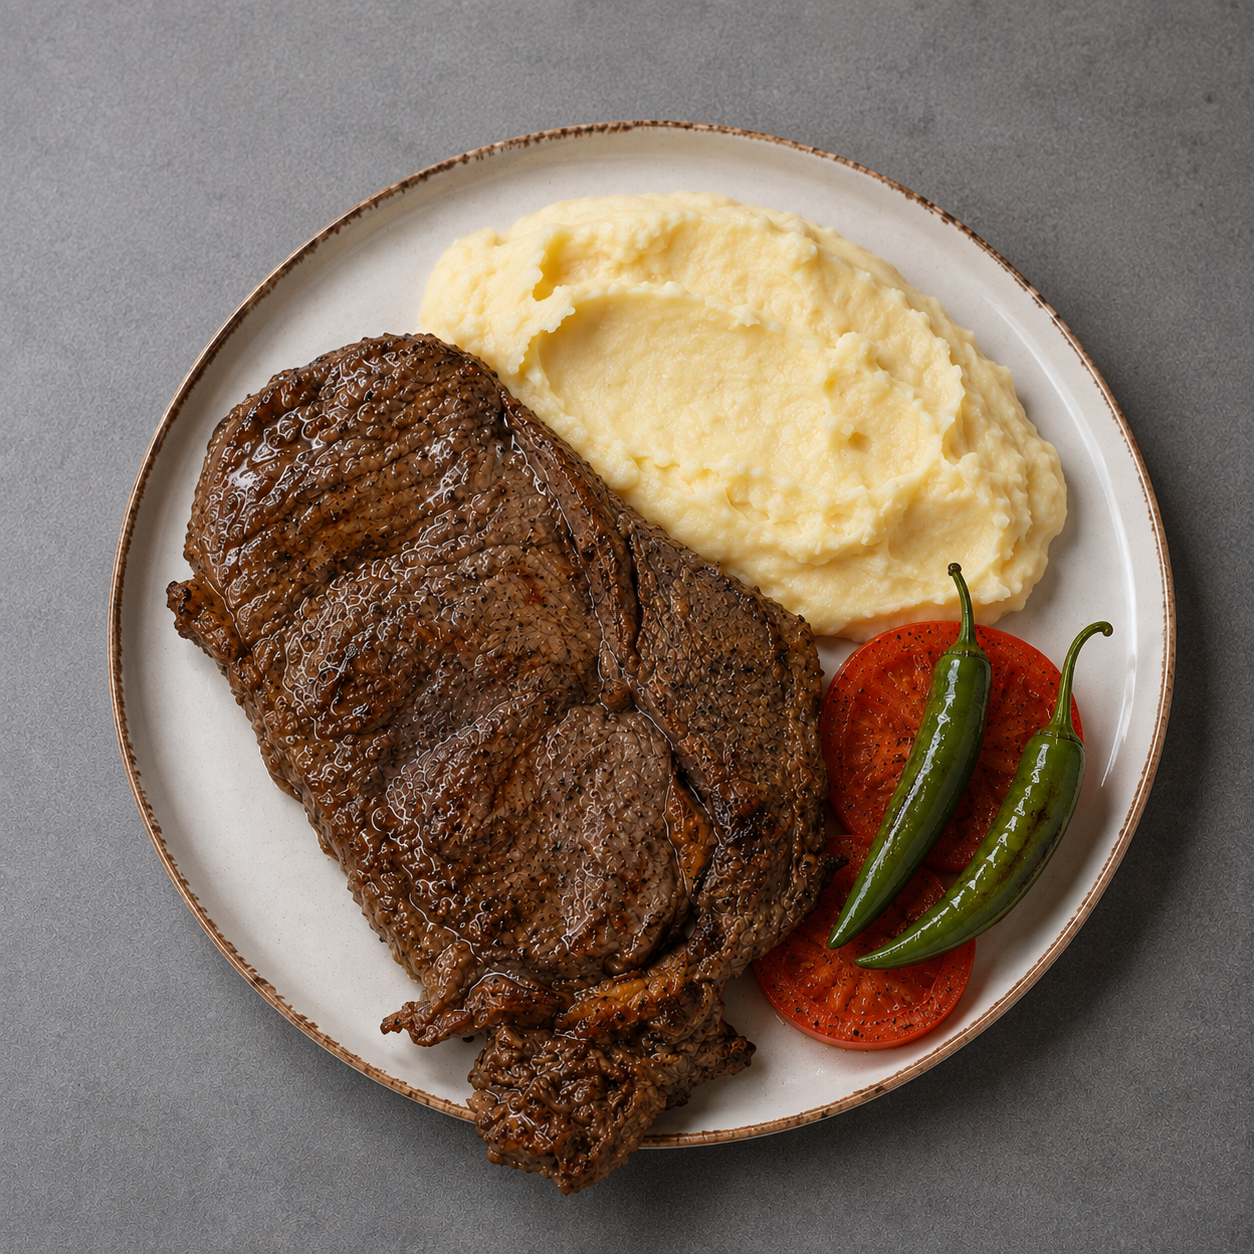
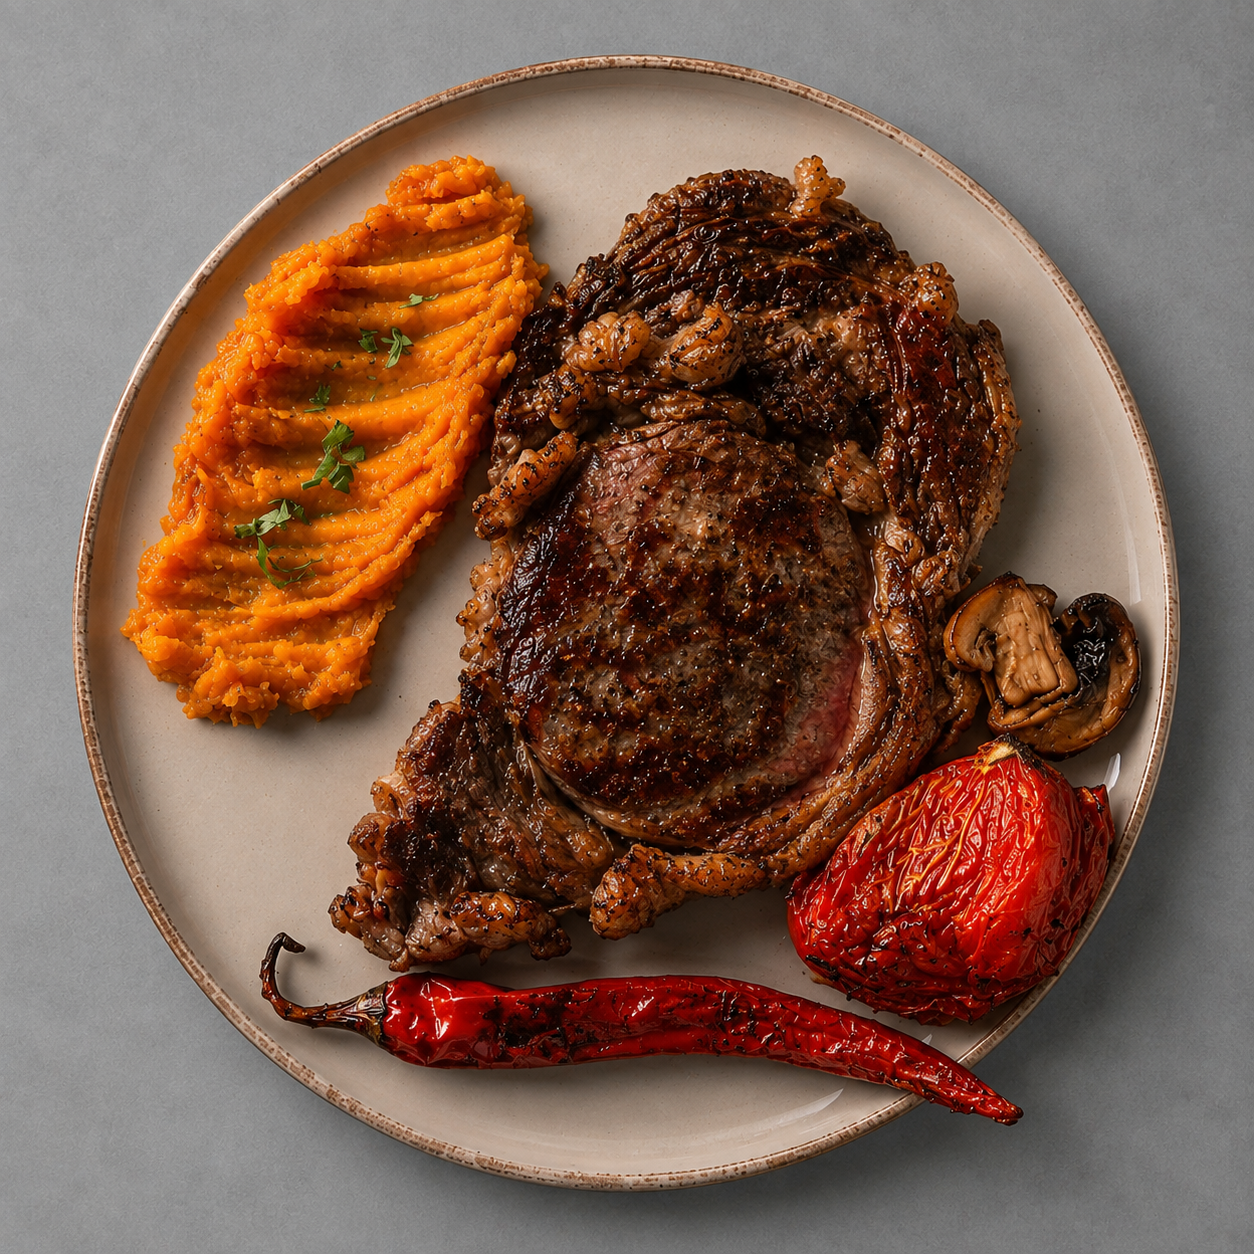
de

diff --git a/js/admin-reservations.js b/js/admin-reservations.js
@@ -189,30 +189,37 @@
     a.remove();
   }
 
-  function openWhatsAppWeb(record) {
+  function openWhatsAppWeb(record, opts = {}) {
     const phone = toWhatsAppPhone(record?.customer_phone);
     if (!phone) {
       showNotice('אין מספר טלפון תקין להודעת WhatsApp');
       return;
     }
-    const text = record?.status === 'confirmed'
-      ? buildConfirmedWhatsAppText(record)
-      : buildGenericWhatsAppText(record);
-    const textEnc = encodeURIComponent(text);
+    const blank = opts.blank === true;
+    const text = blank
+      ? ''
+      : (record?.status === 'confirmed'
+        ? buildConfirmedWhatsAppText(record)
+        : buildGenericWhatsAppText(record));
+    const textEnc = text ? encodeURIComponent(text) : '';
+    const textQuery = textEnc ? `&text=${textEnc}` : '';
 
     /* Desktop → WhatsApp Web (current). Mobile → WhatsApp Business app. */
     if (!isMobileDevice()) {
       openExternalUrl(
-        `https://web.whatsapp.com/send?phone=${encodeURIComponent(phone)}&text=${textEnc}`
+        `https://web.whatsapp.com/send?phone=${encodeURIComponent(phone)}${textQuery}`
       );
       return;
     }
 
     const ua = navigator.userAgent || '';
     if (/Android/i.test(ua)) {
-      const fallback = `https://wa.me/${phone}?text=${textEnc}`;
+      const fallback = `https://wa.me/${phone}${textEnc ? `?text=${textEnc}` : ''}`;
+      const intentPath = textEnc
+        ? `intent://send/?phone=${phone}&text=${textEnc}`
+        : `intent://send/?phone=${phone}`;
       openExternalUrl(
-        `intent://send/?phone=${phone}&text=${textEnc}`
+        `${intentPath}`
         + '#Intent;scheme=whatsapp;package=com.whatsapp.w4b;'
         + `S.browser_fallback_url=${encodeURIComponent(fallback)};end`
       );
@@ -220,7 +227,7 @@
     }
 
     /* iOS / other mobile — opens WhatsApp Business when installed */
-    openExternalUrl(`https://wa.me/${phone}?text=${textEnc}`);
+    openExternalUrl(`https://wa.me/${phone}${textEnc ? `?text=${textEnc}` : ''}`);
   }
 
   const WA_ICON = `<svg class="admin-wa-icon" viewBox="0 0 24 24" aria-hidden="true" focusable="false"><path fill="currentColor" d="M17.472 14.382c-.297-.149-1.758-.867-2.03-.967-.273-.099-.471-.148-.67.15-.197.297-.767.966-.94 1.164-.173.199-.347.223-.644.075-.297-.15-1.255-.463-2.39-1.475-.883-.788-1.48-1.761-1.653-2.059-.173-.297-.018-.458.13-.606.134-.133.298-.347.446-.52.149-.174.198-.298.298-.497.099-.198.05-.371-.025-.52-.075-.149-.669-1.612-.916-2.207-.242-.579-.487-.5-.669-.51-.173-.008-.371-.01-.57-.01-.198 0-.52.074-.792.372-.272.297-1.04 1.016-1.04 2.479 0 1.462 1.065 2.875 1.213 3.074.149.198 2.096 3.2 5.077 4.487.709.306 1.262.489 1.694.625.712.227 1.36.195 1.871.118.571-.085 1.758-.719 2.006-1.413.248-.694.248-1.289.173-1.413-.074-.124-.272-.198-.57-.347m-5.421 7.403h-.004a9.87 9.87 0 01-5.031-1.378l-.361-.214-3.741.982.998-3.648-.235-.374a9.86 9.86 0 01-1.51-5.26c.001-5.45 4.436-9.884 9.888-9.884 2.64 0 5.122 1.03 6.988 2.898a9.825 9.825 0 012.893 6.994c-.003 5.45-4.435 9.884-9.885 9.884m8.413-18.297A11.815 11.815 0 0012.05 0C5.495 0 .16 5.335.157 11.892c0 2.096.547 4.142 1.588 5.945L.057 24l6.305-1.654a11.882 11.882 0 005.683 1.448h.005c6.554 0 11.89-5.335 11.893-11.893a11.821 11.821 0 00-3.48-8.413z"/></svg>`;
@@ -709,7 +716,7 @@
     if (dateInput) {
       dateInput.value = editing
         ? normalizeDateStr(record.reservation_date)
-        : getViewDate();
+        : (global.LechaimPlaceReservations?.nextOpenPlaceResDate?.(getViewDate()) || getViewDate());
       dateInput.min = todayDateStr();
     }
     fillArrivalSlots(editing ? record.arrival_time : '');
@@ -741,6 +748,11 @@
     }
     if (!/^\d{4}-\d{2}-\d{2}$/.test(reservation_date)) {
       showFormError('נא לבחור תאריך');
+      dateInput?.focus();
+      return null;
+    }
+    if (global.LechaimPlaceReservations?.isPlaceResWeekend?.(reservation_date)) {
+      showFormError('לא ניתן להזמין מקום בשישי ובשבת — המסעדה סגורה');
       dateInput?.focus();
       return null;
     }
@@ -889,6 +901,12 @@
     if (!ok) return;
 
     try {
+      if (nextStatus === 'cancelled') {
+        const record = findPlaceRecord(id);
+        if (record && String(record.status || 'pending') === 'pending') {
+          openWhatsAppWeb(record, { blank: true });
+        }
+      }
       await global.LechaimPlaceReservations.setStatus(id, nextStatus);
       /* Optimistic local update so the card stays visible as confirmed + WhatsApp */
       const idx = requestsCache.findIndex((r) => String(r.id) === String(id));

diff --git a/js/place-reservations.js b/js/place-reservations.js
@@ -79,6 +79,34 @@
     return '';
   }
 
+  function parseYmdLocal(ymd) {
+    const m = String(ymd || '').match(/^(\d{4})-(\d{2})-(\d{2})$/);
+    if (!m) return null;
+    return new Date(Number(m[1]), Number(m[2]) - 1, Number(m[3]));
+  }
+
+  /** Restaurant closed Fri–Sat — no place reservations those days. */
+  function isPlaceResWeekend(ymd) {
+    const d = parseYmdLocal(ymd);
+    if (!d || Number.isNaN(d.getTime())) return false;
+    if (typeof Hours()?.isWeekendClosed === 'function') {
+      return Hours().isWeekendClosed(d);
+    }
+    const day = d.getDay();
+    return day === 5 || day === 6;
+  }
+
+  function nextOpenPlaceResDate(fromYmd) {
+    const start = parseYmdLocal(fromYmd) || new Date();
+    const d = new Date(start.getFullYear(), start.getMonth(), start.getDate());
+    for (let i = 0; i < 8; i += 1) {
+      const ymd = `${d.getFullYear()}-${pad2(d.getMonth() + 1)}-${pad2(d.getDate())}`;
+      if (!isPlaceResWeekend(ymd)) return ymd;
+      d.setDate(d.getDate() + 1);
+    }
+    return `${d.getFullYear()}-${pad2(d.getMonth() + 1)}-${pad2(d.getDate())}`;
+  }
+
   function timeToMinutes(value) {
     const s = String(value || '').trim();
     const m = s.match(/^(\d{1,2}):(\d{2})/);
@@ -171,6 +199,7 @@
    * Counts pending + confirmed + arrived (soft holds).
    */
   async function getUnavailableSlots(dateStr, partySize) {
+    if (isPlaceResWeekend(dateStr)) return buildArrivalSlots().slice();
     const sizeRaw = Math.floor(Number(partySize));
     const size = Number.isFinite(sizeRaw) && sizeRaw >= 1 ? sizeRaw : 1;
     const occupancy = await getOccupancyForDate(dateStr);
@@ -193,6 +222,7 @@
       return new Error(`נא להזין מספר סועדים (1–${CAPACITY_SEATS})`);
     }
     if (msg.includes('NAME_REQUIRED')) return new Error('נא להזין שם מלא');
+    if (msg.includes('DATE_WEEKEND')) return new Error('לא ניתן להזמין מקום בשישי ובשבת — המסעדה סגורה');
     if (msg.includes('DATE_REQUIRED')) return new Error('נא לבחור תאריך');
     if (msg.includes('TIME_REQUIRED')) return new Error('נא לבחור שעה');
     return new Error(msg || 'שליחת הבקשה נכשלה');
@@ -220,6 +250,9 @@
       throw new Error(`נא להזין מספר סועדים (1–${CAPACITY_SEATS})`);
     }
     if (!reservation_date) throw new Error('נא לבחור תאריך');
+    if (isPlaceResWeekend(reservation_date)) {
+      throw new Error('לא ניתן להזמין מקום בשישי ובשבת — המסעדה סגורה');
+    }
     if (!isValidArrivalTime(arrival_time)) {
       throw new Error('נא לבחור שעה בין 14:00 ל־21:00');
     }
@@ -387,6 +420,9 @@
     if (!customer_name) throw new Error('נא להזין שם לקוח');
     if (!customer_phone) throw new Error('נא להזין טלפון');
     if (!reservation_date) throw new Error('תאריך לא תקין');
+    if (isPlaceResWeekend(reservation_date)) {
+      throw new Error('לא ניתן להזמין מקום בשישי ובשבת — המסעדה סגורה');
+    }
     /* Admin may use 15-min slots beyond the public half-hour list */
     if (timeToMinutes(arrival_time) == null) throw new Error('שעת הגעה לא תקינה');
     if (!Number.isFinite(party_size) || party_size < 1 || party_size > CAPACITY_SEATS) {
@@ -448,6 +484,8 @@
     peakOccupancy,
     buildArrivalSlots,
     isValidArrivalTime,
+    isPlaceResWeekend,
+    nextOpenPlaceResDate,
     CAPACITY_SEATS,
     AVG_SIT_MINUTES,
     OPEN_HOUR,

diff --git a/js/entry-gate.js b/js/entry-gate.js
@@ -112,6 +112,7 @@
       placeResPhoneRequired: 'Please enter a valid phone number',
       placeResPartyRequired: 'Please enter number of guests (1–60)',
       placeResDateRequired: 'Please choose a date',
+      placeResWeekendClosed: 'The restaurant is closed on Friday and Saturday — please choose another date',
       placeResTimeRequired: 'Please choose a time between 14:00 and 21:00',
       placeResSubmitFailed: 'Could not send the request. Please try again.',
       placeResCapacityTitle: 'No availability',
@@ -221,6 +222,7 @@
       placeResPhoneRequired: 'נא להזין מספר טלפון תקין',
       placeResPartyRequired: 'נא להזין מספר סועדים (1–60)',
       placeResDateRequired: 'נא לבחור תאריך',
+      placeResWeekendClosed: 'לא ניתן להזמין מקום בשישי ובשבת — המסעדה סגורה',
       placeResTimeRequired: 'נא לבחור שעה בין 14:00 ל־21:00',
       placeResSubmitFailed: 'שליחת הבקשה נכשלה. נסו שוב.',
       placeResCapacityTitle: 'אין מקום פנוי',
@@ -619,6 +621,26 @@
     }
   }
 
+  function defaultPlaceResDate() {
+    const api = window.LechaimPlaceReservations;
+    const today = todayDateStr();
+    if (typeof api?.nextOpenPlaceResDate === 'function') {
+      return api.nextOpenPlaceResDate(today);
+    }
+    return today;
+  }
+
+  function isPlaceResWeekendDate(dateStr) {
+    const api = window.LechaimPlaceReservations;
+    if (typeof api?.isPlaceResWeekend === 'function') {
+      return api.isPlaceResWeekend(dateStr);
+    }
+    const m = String(dateStr || '').match(/^(\d{4})-(\d{2})-(\d{2})$/);
+    if (!m) return false;
+    const day = new Date(Number(m[1]), Number(m[2]) - 1, Number(m[3])).getDay();
+    return day === 5 || day === 6;
+  }
+
   async function refreshPlaceResAvailableSlots() {
     if (!placeResTime) return;
     const token = ++placeResSlotsToken;
@@ -628,6 +650,12 @@
 
     if (!/^\d{4}-\d{2}-\d{2}$/.test(dateStr) || !api?.getUnavailableSlots) {
       fillPlaceResTimeSlots([]);
+      return;
+    }
+
+    if (isPlaceResWeekendDate(dateStr)) {
+      fillPlaceResTimeSlots(api.buildArrivalSlots?.() || []);
+      showPlaceResError(t('placeResWeekendClosed'));
       return;
     }
 
@@ -658,7 +686,7 @@
     showPlaceResError('');
     if (placeResDate) {
       placeResDate.min = todayDateStr();
-      placeResDate.value = todayDateStr();
+      placeResDate.value = defaultPlaceResDate();
     }
     fillPlaceResTimeSlots([]);
     refreshPlaceResAvailableSlots();
@@ -770,6 +798,11 @@
     }
     if (!/^\d{4}-\d{2}-\d{2}$/.test(reservationDate)) {
       showPlaceResError(t('placeResDateRequired'));
+      placeResDate?.focus();
+      return;
+    }
+    if (isPlaceResWeekendDate(reservationDate)) {
+      showPlaceResError(t('placeResWeekendClosed'));
       placeResDate?.focus();
       return;
     }

diff --git a/js/menu-data.js b/js/menu-data.js
@@ -419,7 +419,11 @@ const DISH_I18N = {
     },
     'staik-antarkot': {
       name: 'Premium Entrecote Steak',
-      desc: 'Premium entrecote steak 300g, grilled medium, served with green chimichurri on the side, chili pepper and fire-roasted tomato.',
+      desc: 'Premium entrecote steak 300g, grilled medium, served with green chimichurri on the side, chili pepper, fire-roasted tomato, and sweet potato cream.',
+    },
+    asado: {
+      name: 'Fall-off-the-bone Asado',
+      desc: 'Slow-cooked asado, 700–800g, until the meat is tender and falls off the bone, served with green chimichurri on the side, chili pepper and red onion.',
     },
     'whole-fish': {
       name: 'Whole Baked Sea Bream',
@@ -639,9 +643,17 @@ const MENU_DATA = {
           id: 'staik-antarkot',
           name: 'סטייק אנטריקוט פרימיום',
           printName: 'Entrecote',
-          description: 'סטייק אנטריקוט פרימיום 300 גרם, צלוי למידת עשייה מדיום, מוגש עם צ\'ימיצ\'ורי ירוק בצד, פלפל חריף ועגבנייה צלויה על האש.',
+          description: 'סטייק אנטריקוט פרימיום 300 גרם, צלוי למידת עשייה מדיום, מוגש עם צ\'ימיצ\'ורי ירוק בצד, פלפל חריף ועגבנייה צלויה על האש, וקרם בטטה.',
           price: 52,
           image: dishImage('staik-antarkot'),
+        },
+        {
+          id: 'asado',
+          name: 'אסאדו מתפרק מהעצם',
+          printName: 'Asado',
+          description: 'אסאדו בבישול ארוך, במשקל 700–800 גרם, עד שהבשר רך ומתפרק מהעצם, מוגש עם צ\'ימיצ\'ורי ירוק בצד, פלפל חריף ובצל סגול.',
+          price: 83,
+          image: dishImage('asado'),
         },
       ],
     },

diff --git a/js/shabbat-menu-data.js b/js/shabbat-menu-data.js
@@ -31,7 +31,7 @@
       orderSentFail: 'שליחת ההזמנה נכשלה\nנסה שוב',
       backHome: 'חזרה',
       closedTitle: 'ההזמנות לשבת סגורות',
-      closedText: 'ניתן להזמין שוב החל ביום ראשון.\nימים א׳–ד׳ · יום ה׳ עד 12:00',
+      closedText: 'ניתן להזמין שוב החל ביום ראשון.\nימים א׳–ד׳ · יום ה׳ עד 20:00',
       adminClosedTitle: 'הזמנות שבת סגורות כרגע',
       adminClosedText: 'נשמח לעדכן כאשר ההזמנות ייפתחו מחדש.',
       closedBrowse: 'לצפייה בתפריט',
@@ -101,7 +101,7 @@
       orderSentFail: 'Failed to send order\nTry again',
       backHome: 'Back',
       closedTitle: 'Shabbat orders are closed',
-      closedText: 'You can order again starting Sunday.\nSun–Wed · Thursday until 12:00',
+      closedText: 'You can order again starting Sunday.\nSun–Wed · Thursday until 20:00',
       adminClosedTitle: 'Shabbat orders are closed right now',
       adminClosedText: 'We will update when orders reopen.',
       closedBrowse: 'View the menu',

diff --git a/js/shabbat-app.js b/js/shabbat-app.js
@@ -119,18 +119,20 @@
     return escapeHtml(str).replace(/'/g, '&#39;');
   }
 
-  /* Set true to enforce Sun–Wed / Thu until 12:00 / Fri–Sat closed */
+  /* Set true to enforce Sun–Wed / Thu until 20:00 / Fri–Sat closed */
   const SHABBAT_HOURS_ENABLED = true;
+  /** Thursday last hour exclusive → 19:59 open, 20:00 closed. */
+  const SHABBAT_THU_CLOSE_HOUR = 20;
 
   /**
-   * Sun–Wed open all day; Thu open until 12:00; Fri–Sat closed.
+   * Sun–Wed open all day; Thu open until 20:00; Fri–Sat closed.
    */
   function isShabbatOrderingOpen(now = new Date()) {
     if (!SHABBAT_HOURS_ENABLED) return true;
     const day = now.getDay(); /* 0=Sun … 5=Fri 6=Sat */
     if (day === 5 || day === 6) return false;
     if (day === 4) {
-      return now.getHours() < 12;
+      return now.getHours() < SHABBAT_THU_CLOSE_HOUR;
     }
     return true; /* Sun–Wed */
   }

diff --git a/shabbat.html b/shabbat.html
@@ -104,7 +104,7 @@
   <section class="shabbat-closed" id="shabbat-closed" hidden>
     <div class="shabbat-closed__panel">
       <p class="shabbat-closed__title" id="shabbat-closed-title" data-i18n="closedTitle">ההזמנות לשבת סגורות</p>
-      <p class="shabbat-closed__text" id="shabbat-closed-text" data-i18n="closedText">ניתן להזמין שוב החל ביום ראשון.<br>ימים א׳–ד׳ · יום ה׳ עד 12:00</p>
+      <p class="shabbat-closed__text" id="shabbat-closed-text" data-i18n="closedText">ניתן להזמין שוב החל ביום ראשון.<br>ימים א׳–ד׳ · יום ה׳ עד 20:00</p>
       <button type="button" class="entry-gate__btn entry-gate__btn--primary" id="shabbat-browse-menu" data-i18n="closedBrowse">
         לצפייה בתפריט
       </button>
